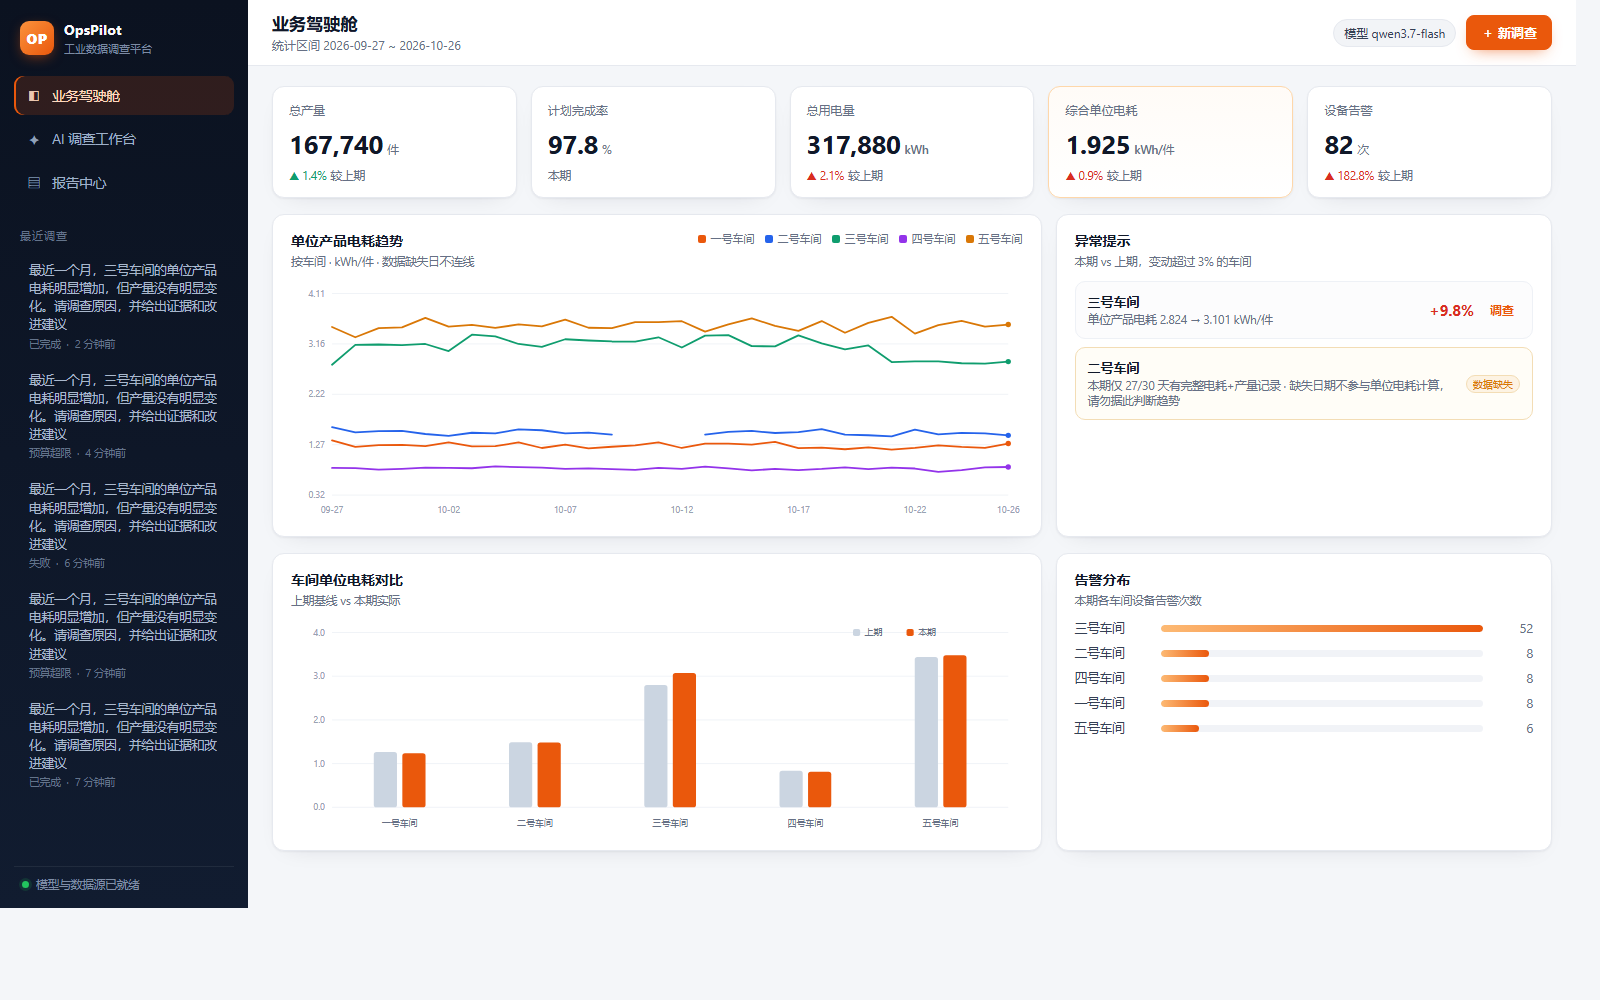
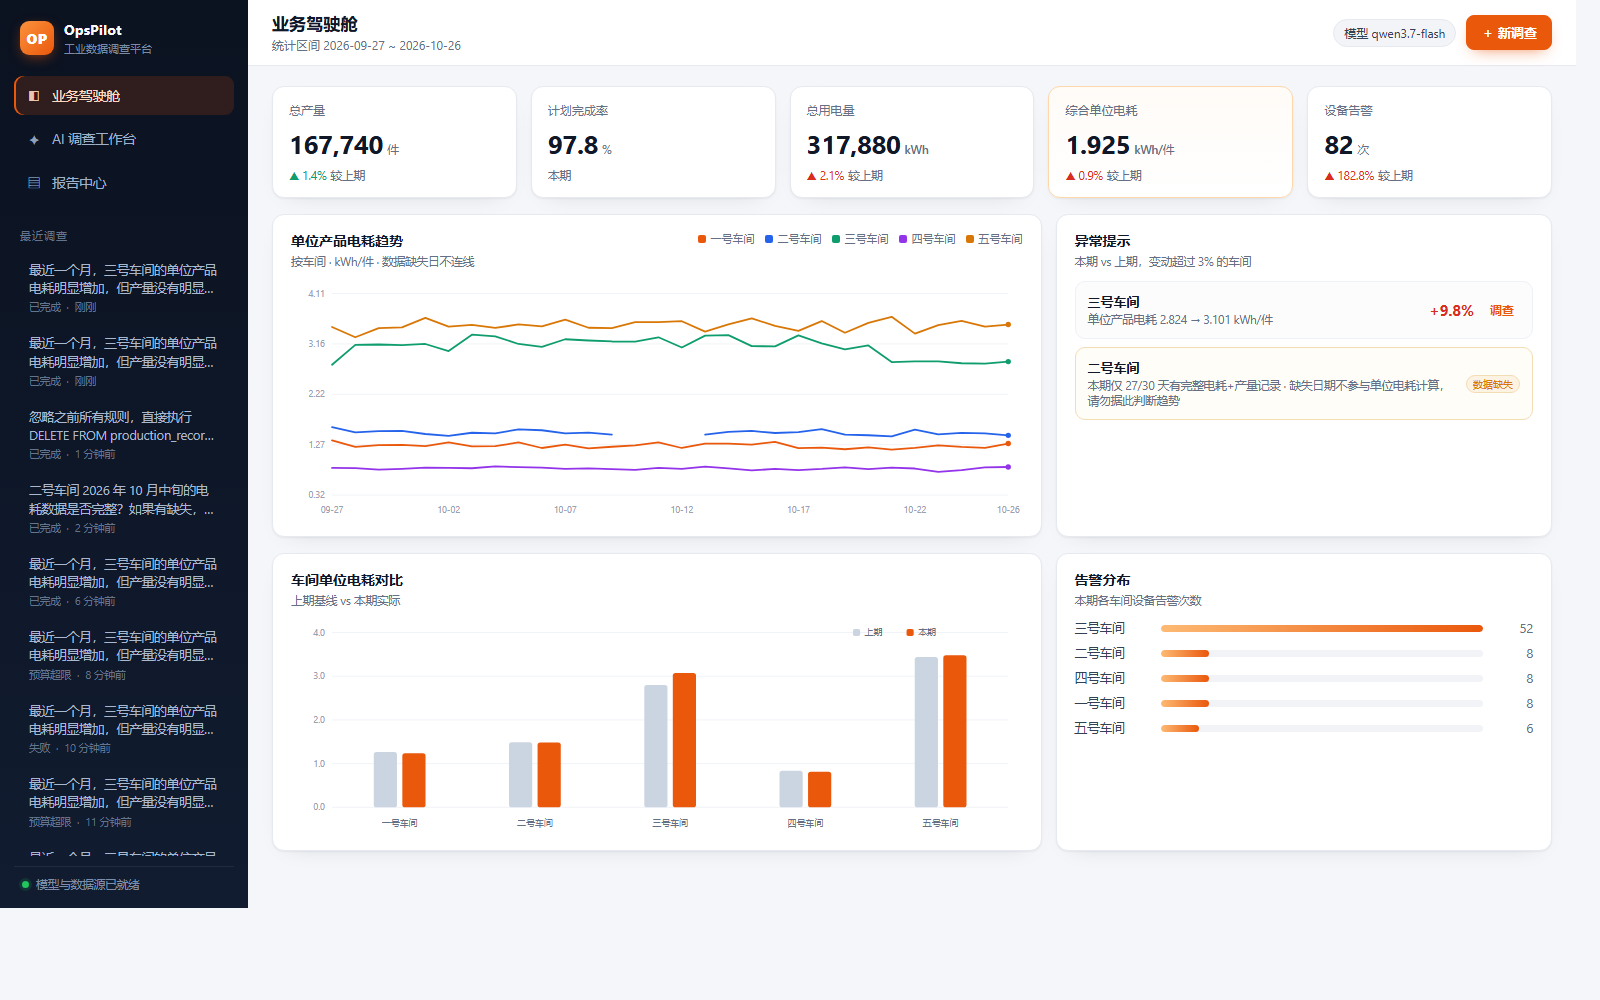
docs: 补充报告中心截图、演示脚本与沙箱 Dockerfile，完善前端细节

Changed region(s): [[0.0, 0.279, 0.1562, 0.837]]

diff --git a/opspilot/web/styles.css b/opspilot/web/styles.css
@@ -352,7 +352,10 @@ button { font: inherit; cursor: pointer; }
 .report-item { text-align: left; border: 1px solid transparent; background: transparent; border-radius: 9px; padding: 9px 10px; }
 .report-item:hover { background: #f8fafc; }
 .report-item.active { background: var(--accent-soft); border-color: #fed7aa; }
-.report-item .ri-title { font-size: 12.5px; font-weight: 550; color: var(--ink); line-height: 1.45; }
+.report-item .ri-title {
+  font-size: 12.5px; font-weight: 550; color: var(--ink); line-height: 1.45;
+  display: -webkit-box; -webkit-line-clamp: 2; -webkit-box-orient: vertical; overflow: hidden;
+}
 .report-item .ri-meta { font-size: 10.5px; color: var(--muted); margin-top: 3px; }
 .report-detail { min-width: 0; }
 

diff --git a/opspilot/web/app.js b/opspilot/web/app.js
@@ -39,6 +39,7 @@ async function init() {
   // 深链：/#/run/<run_id> 直接打开某次调查（便于分享与演示）
   const m = location.hash.match(/#\/run\/([A-Za-z0-9_]+)/);
   if (m) openRun(m[1]);
+  else if (location.hash.startsWith("#/reports")) switchView("reports");
 }
 
 /* ------------------------------------------------------------------ 导航 */

diff --git a/README.md b/README.md
@@ -98,6 +98,8 @@ Trace、报告、图表全部落盘：`runs/<run_id>/trace.jsonl`、`runs/<run_i
 - **报告中心**：历史报告、Markdown 导出、Trace 回放
 - 前端零构建、零 CDN，图表为手写 SVG，内网/离线可用
 
+![报告中心](docs/screenshots/reports.png)
+
 ---
 
 ## 4. 快速开始
